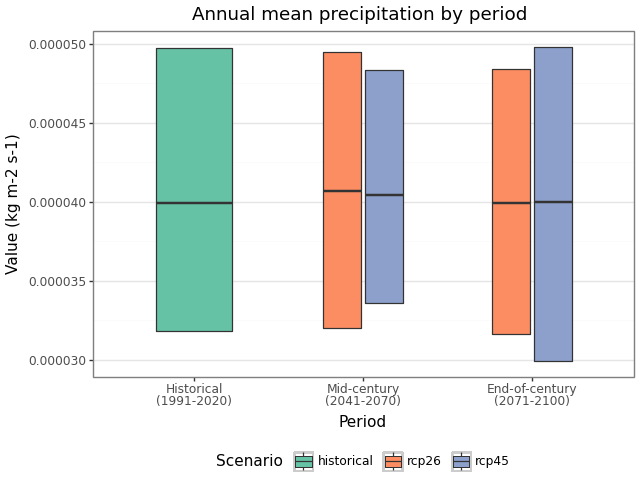
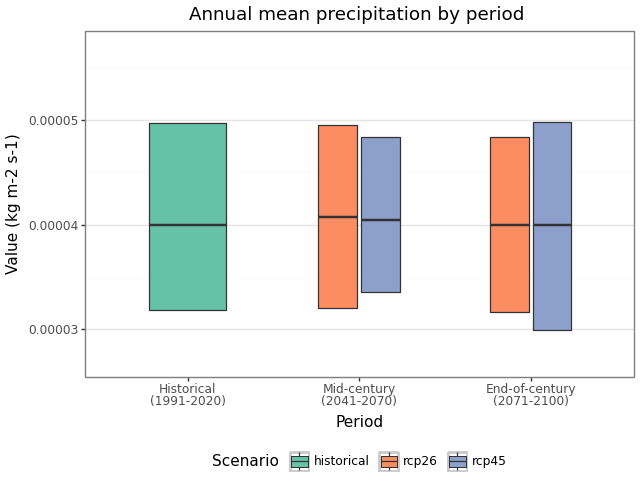
update limits for boxplot

diff --git a/workflow/KAPy/save_change_to_netcdf.py b/workflow/KAPy/save_change_to_netcdf.py
@@ -16,8 +16,9 @@ output_files = [/lustre/storeC-ext/users/klimakverna/development/Klimakverna-pil
 """
 
 
-def save_to_netcdf(config, indicator_id, scenario, ensemble_stats_files, netcdf_filename=None):
-
+def save_change_to_netcdf(
+    config: dict, indicator_id: str, scenario: str, ensemble_stats_files: list[str], netcdf_filename=None
+):
     indicator = config["indicators"][indicator_id]
 
     for filename in ensemble_stats_files:
@@ -26,26 +27,33 @@ def save_to_netcdf(config, indicator_id, scenario, ensemble_stats_files, netcdf_
         elif "historical" in filename:
             ds_historical = xr.open_dataset(filename)
 
-    n_periods = len(config["periods"])
     change_ds_list = []
-    historical_mean_value = ds_historical["indicator_mean"].isel(periodID=0).drop("periodID")
+    historical_mean_values = ds_historical["indicator_mean"].isel(periodID=0).drop("periodID")
+    periods = ["2", "3"]
 
-    for period in range(1, n_periods):
-        current_ds = xr.Dataset(ds.isel(periodID=period) - ds_historical.isel(periodID=0)).expand_dims("periodID")
-        current_change = current_ds["indicator_mean"].isel(periodID=0)
+    for period in periods:
+        try:
+            current_ds = xr.Dataset(ds.sel(periodID=period)).drop("periodID")
+        except KeyError:
+            current_ds = xr.Dataset(ds.sel(periodID=int(period))).drop("periodID")
+        indicator_mean_change = current_ds["indicator_mean"] - historical_mean_values
+        indicator_mean_relative_change = indicator_mean_change * 100 / historical_mean_values
         change_ds_list.append(
             current_ds.assign(
-                indicator_mean_rel=xr.DataArray(current_change * 100 / historical_mean_value).expand_dims("periodID")
+                indicator_mean_change=indicator_mean_change.expand_dims("periodID"),
+                indicator_mean_relative_change=indicator_mean_relative_change.expand_dims("periodID"),
             )
         )
 
     change_ds = xr.concat(change_ds_list, "periodID")
-    change_ds["periodID"].astype("int")
+    change_ds = change_ds.assign(periodID=[2, 3])
+    # change_ds["periodID"].astype("int")  # for cdo infon to not throw error
+
     attrs = ds.attrs
     attrs["units"] = indicator["units"]
     attrs["name"] = indicator["name"]
     attrs["scenario"] = scenario
     change_ds = change_ds.assign_attrs(attrs)
-    change_ds["indicator_mean_rel"].attrs = {"units": "%"}
+    change_ds["indicator_mean_relative_change"].attrs = {"units": "%"}
 
     change_ds.to_netcdf(netcdf_filename[0])

diff --git a/workflow/KAPy/plots.py b/workflow/KAPy/plots.py
@@ -62,6 +62,7 @@ def makeBoxplot(config, indID, srcFiles, outFile=None):
 
     # Now merge into dataframe and pivot for plotting
     pltLong = pd.merge(datdf, ptileTbl, on="percentiles", how="left")
+
     pltDatWide = pltLong.pivot_table(
         index=["scenario", "periodID"], columns="ptileLbl", values="indicator"
     ).reset_index()
@@ -92,6 +93,7 @@ def makeBoxplot(config, indID, srcFiles, outFile=None):
         + scale_fill_manual(values=scColourDict)
         + theme_bw()
         + theme(legend_position="bottom", panel_grid_major_x=element_blank())
+        + coord_cartesian(ylim=[2.7e-05,5.7e-05])
     )
 
     # Output

diff --git a/workflow/KAPy/__init__.py b/workflow/KAPy/__init__.py
@@ -9,5 +9,5 @@ from .regridding import *
 from .indicators import *
 from .workflow import getWorkflow
 from .plots import *
-from .save_to_netcdf import *
+from .save_change_to_netcdf import *
 from .helpers import *
